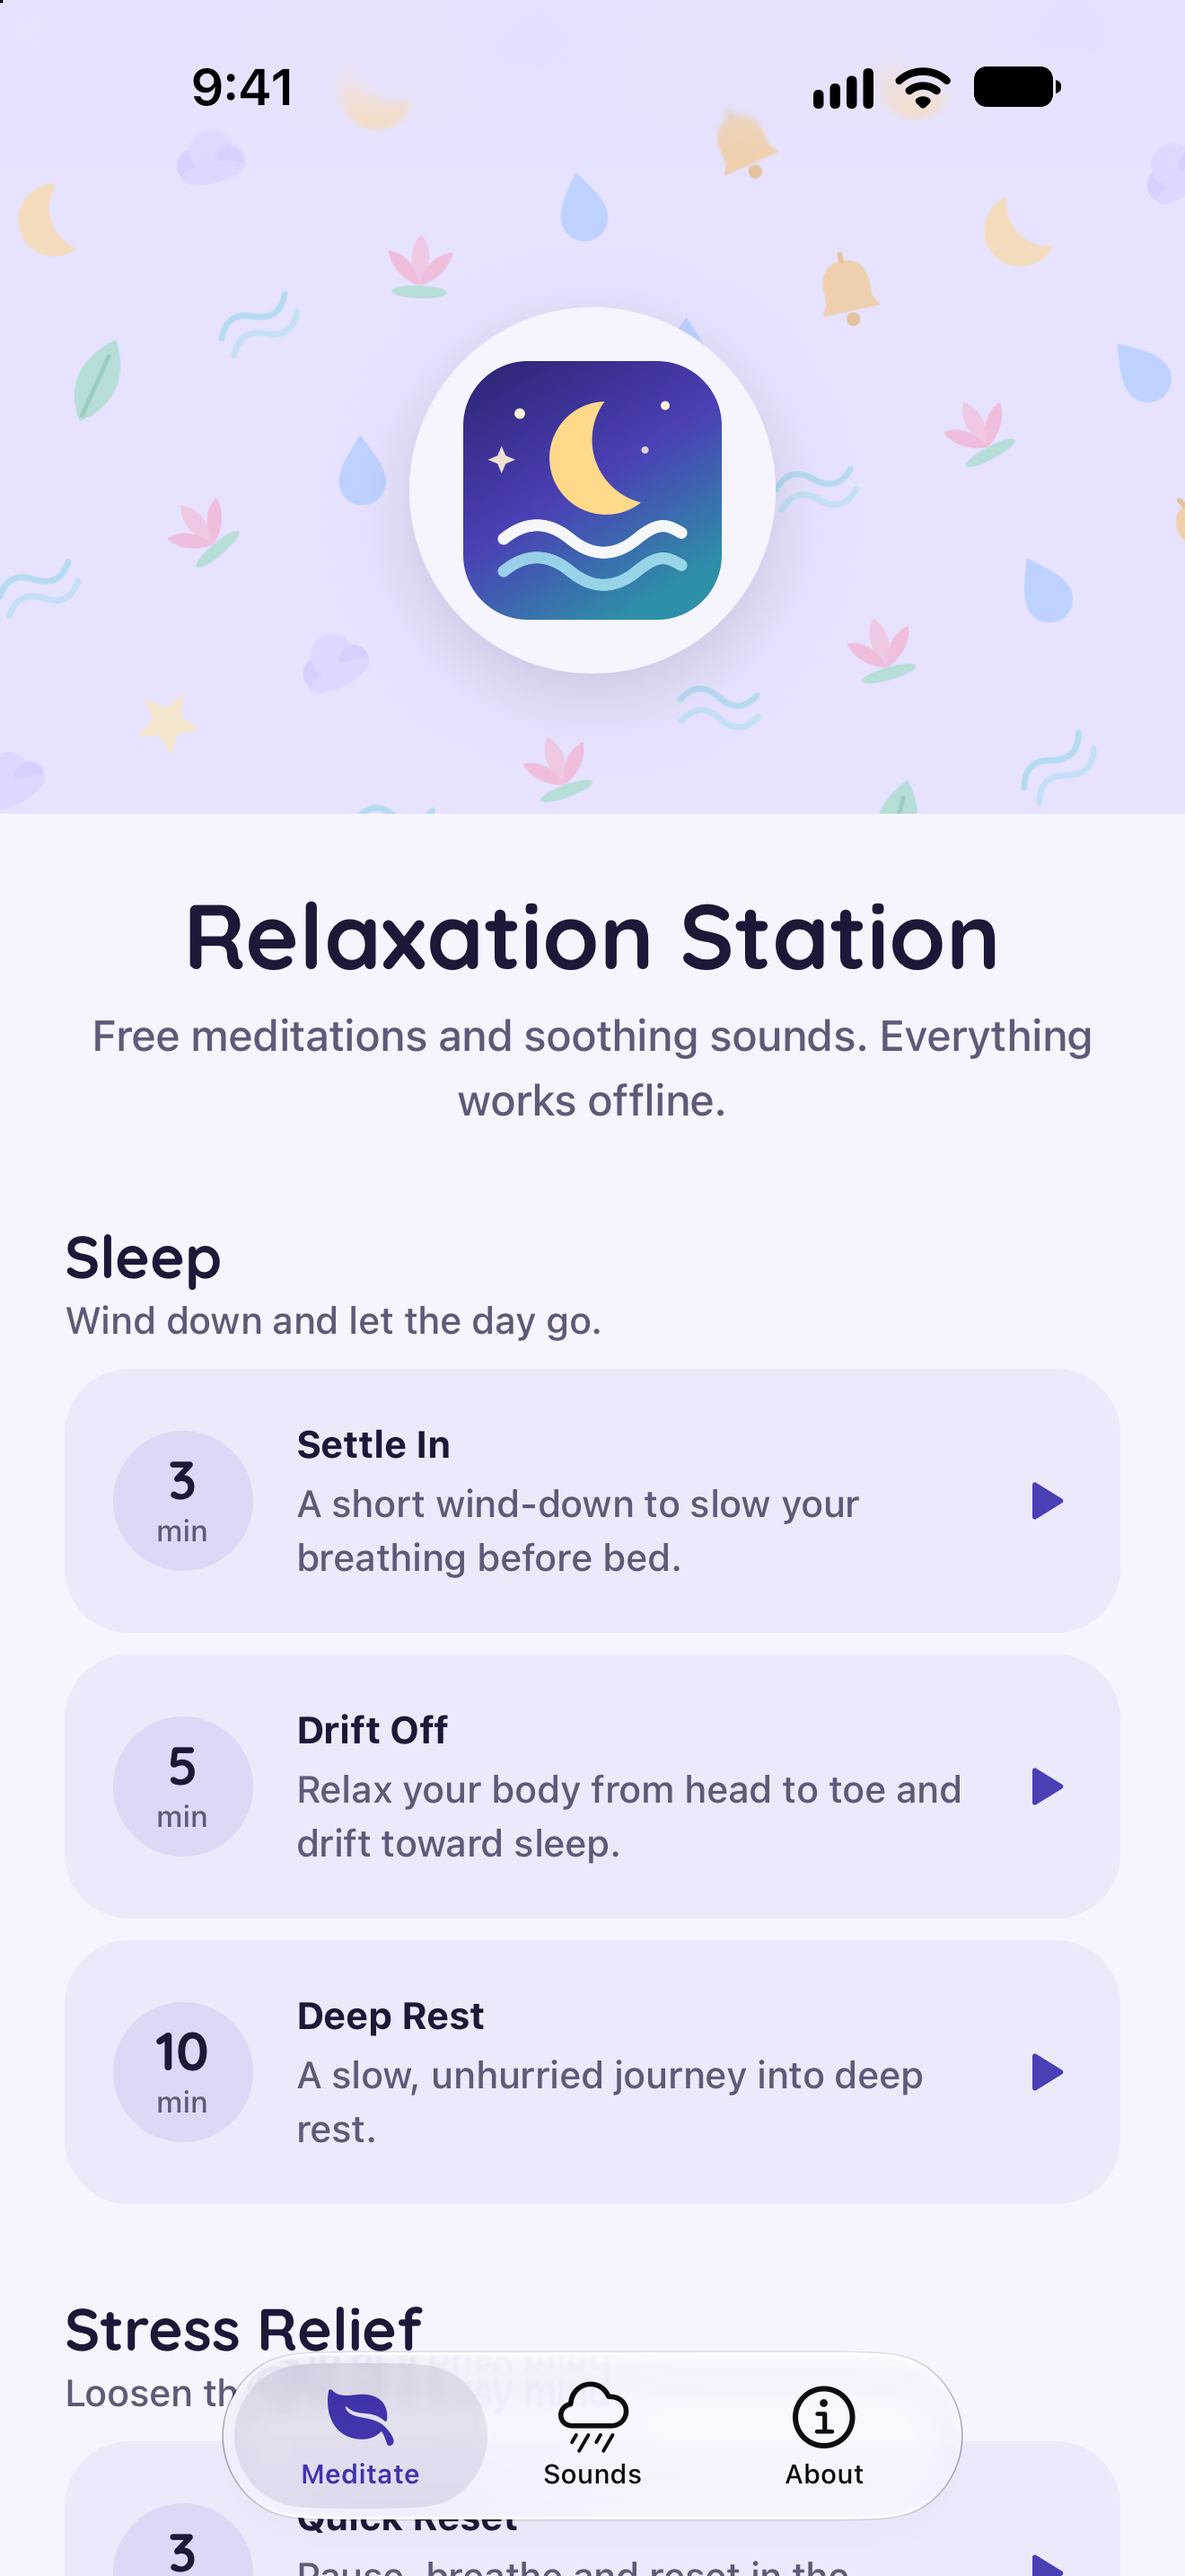
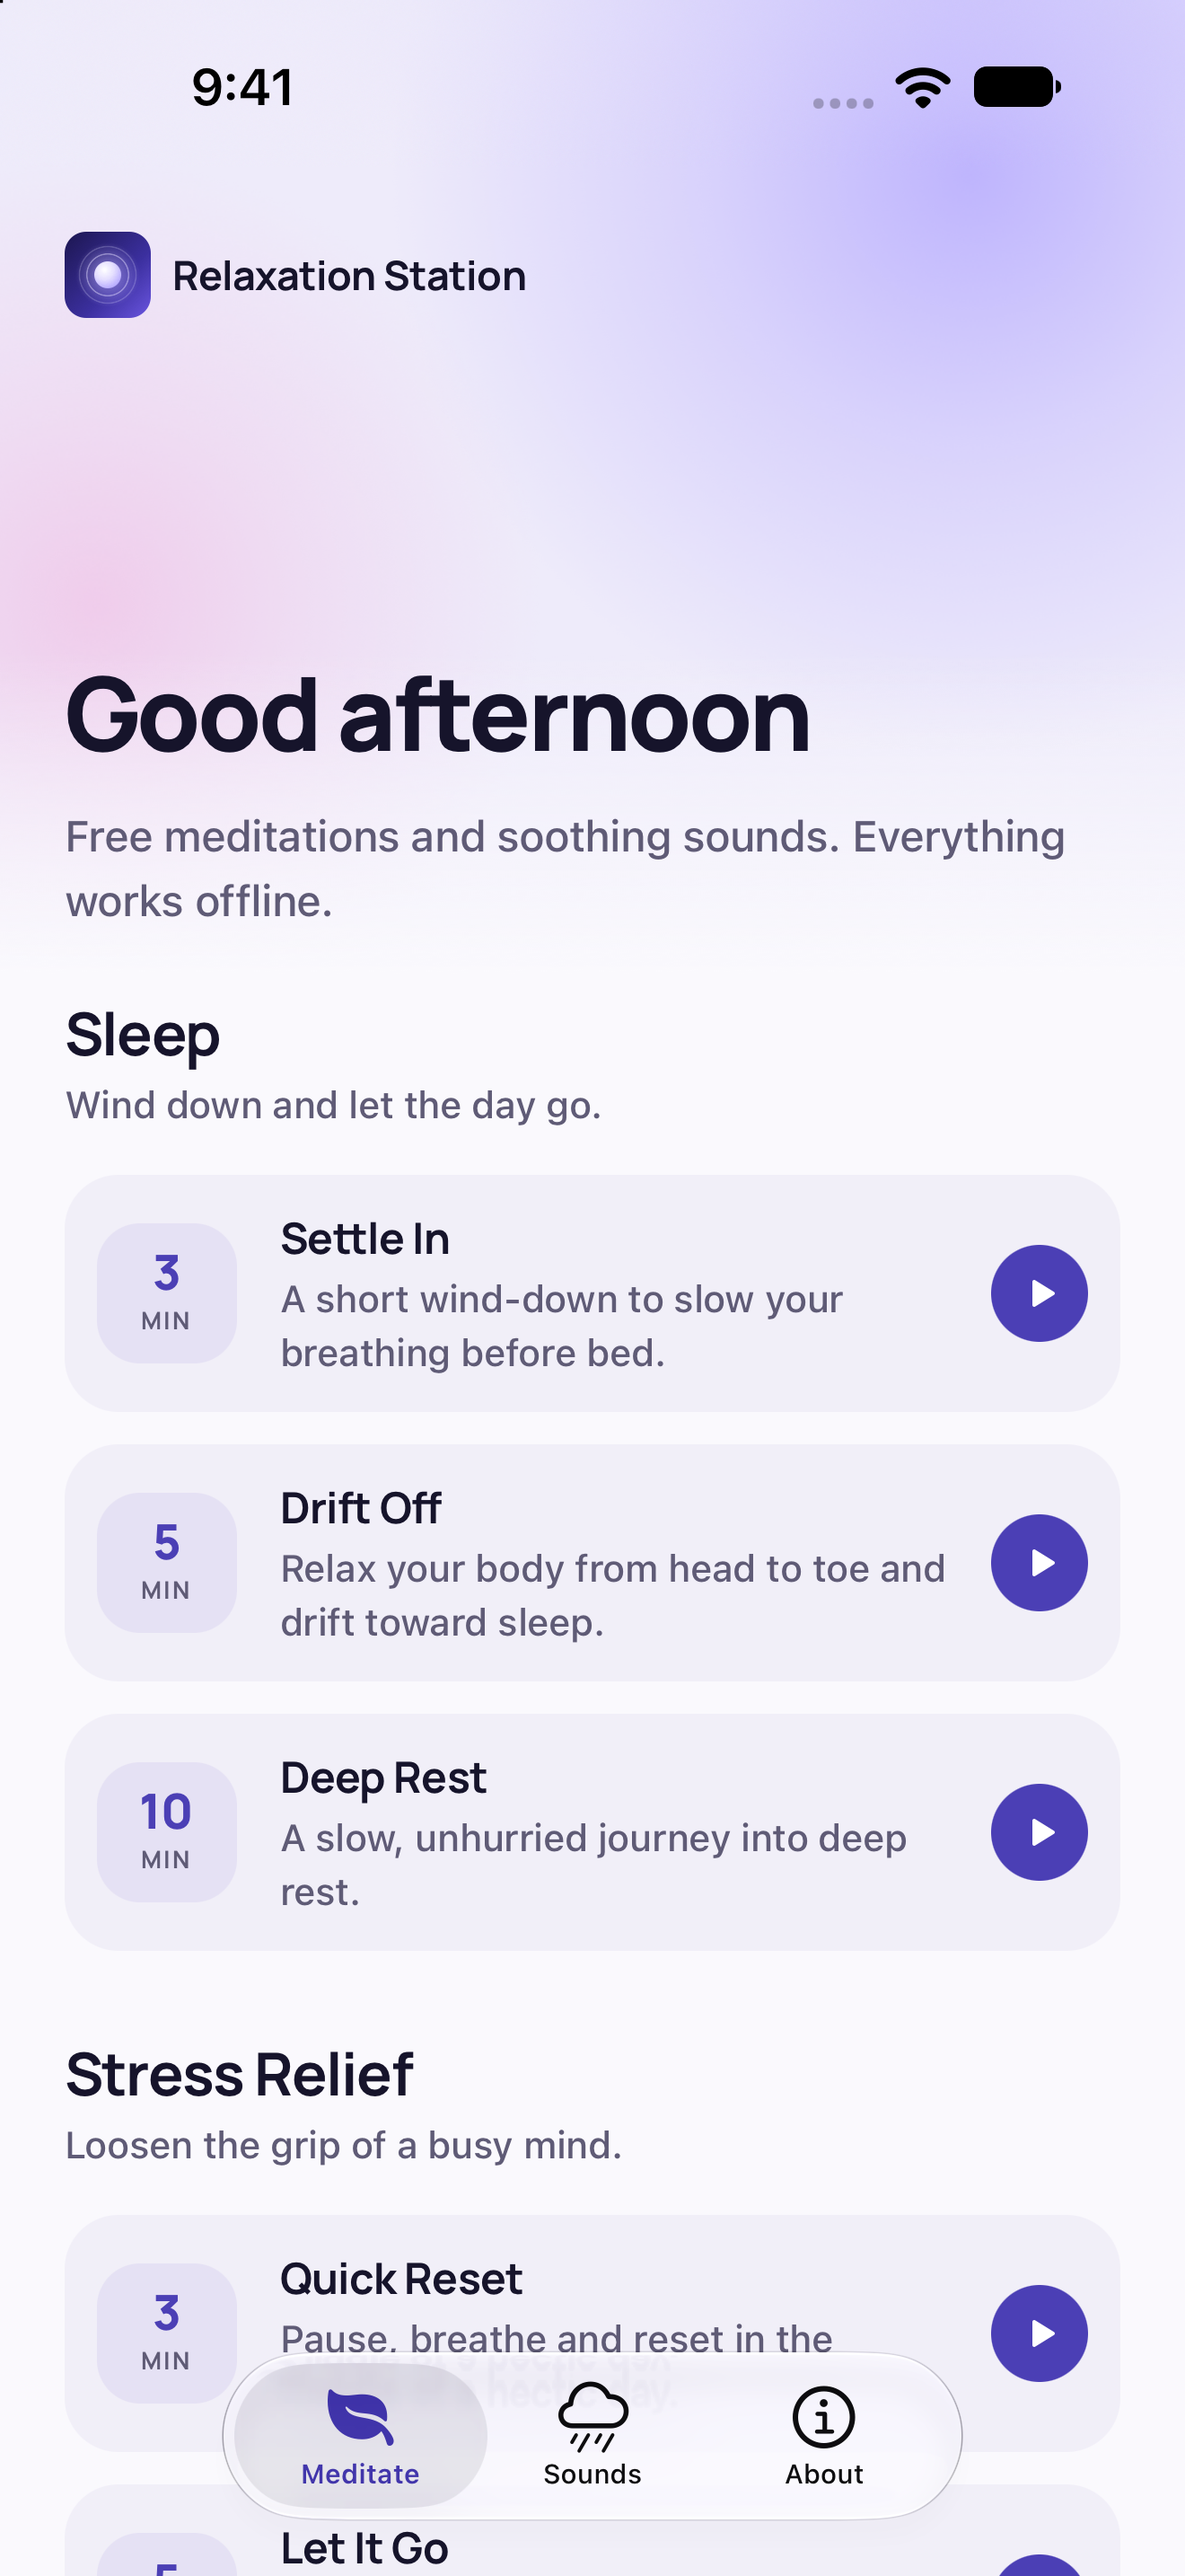
Refresh store listing images for the new design
- Feature graphic uses the new logo, aura glows and Manrope font
- Retake App Store and Play screenshots on the iPhone 18 Pro Max
- Replace the soundscape player shot with a dark meditation player
- Fix generate-play-assets.mjs, which still loaded the removed Quicksand font
- Update review notes and checklists that mentioned the mini player

diff --git a/store/README.md b/store/README.md
@@ -132,8 +132,8 @@ Relaxation Station is a free meditation and sleep sounds app for anyone who want
 No login, keys or setup are needed. All audio is bundled in the app.
 a. Launch the app. On the Meditate tab, tap any session, for example "Settle In" (3 min). The player opens and the meditation plays.
 b. Lock the iPhone. The meditation keeps playing and shows Now Playing controls on the lock screen.
-c. Unlock, tap Done, open the Sounds tab and tap "Ocean Waves". It replaces the meditation and loops until stopped.
-d. Use the mini player or the player's Stop button to stop playback.
+c. Unlock and tap "End session", or close the player with the X. Closing the player stops the meditation.
+d. Open the Sounds tab and tap "Ocean Waves". It loops until stopped. Tap the tile again, or use the lock screen controls, to stop it.
 e. The About tab links to the privacy policy and support page.
 
 BACKGROUND AUDIO
@@ -160,7 +160,7 @@ Record on a physical iPhone running the latest iOS. Use Control Center → Scree
 1. On the Home Screen, tap the app icon.
 2. Meditate tab: scroll the categories, then tap **Settle In**.
 3. Lock the phone and wake it to show the lock screen controls with audio still playing. Unlock.
-4. Tap **Done**, open **Sounds** and tap **Ocean Waves**. Lock the phone again to show it keeps playing, then stop it from the lock screen.
+4. Tap **End session**, open **Sounds** and tap **Ocean Waves**. Lock the phone again to show it keeps playing, then stop it from the lock screen.
 5. Open **About** and tap **Privacy policy**.
 
 ## Screenshots
@@ -170,7 +170,7 @@ All screenshots come from the iPhone 18 Pro Max simulator with a clean 9:41 stat
 1. `01-meditate.png`: hero, logo and the Sleep sessions
 2. `02-player.png`: a 10-minute meditation playing
 3. `03-sounds.png`: the soundscape grid with Ocean Waves playing
-4. `04-soundscape-player.png`: dark mode soundscape player
+4. `04-player-dark.png`: dark mode meditation player
 5. `05-meditate-dark.png`: dark mode hero
 
 | Folder | Size | App Store Connect slot |

diff --git a/README.md b/README.md
@@ -67,7 +67,7 @@ audio-tools/              Audio generator (Python, run on a Mac only)
 assets/audio/             Generated meditations and soundscapes (AAC)
 src/
   app/                    Expo Router routes: (tabs)/ Meditate, Sounds, About; player.tsx modal
-  components/             Mini player, sound icons, button; brand/ logo, hero, splash
+  components/             Play/pause icon, sound icons, button; brand/ logo, hero, splash
   content/                Typed catalog and the generated audio map
   context/                Playback: one shared player, background audio, lock screen controls
   lib/                    Small pure helpers with tests

diff --git a/store/android/README.md b/store/android/README.md
@@ -100,7 +100,7 @@ To record the video on an Android phone, use the Screen recorder in quick settin
 
 - Audio keeps playing with the screen off for longer than 3 minutes. Android stops background audio around then if the media notification isn't active.
 - The first time you play something, Android 13 and later ask for notification permission. Allow it so the playback controls appear.
-- The mini player sits above the tab bar, and text isn't clipped.
+- Closing the player stops a meditation, tapping a playing sound tile stops it, and text isn't clipped.
 
 ## Going public later
 
